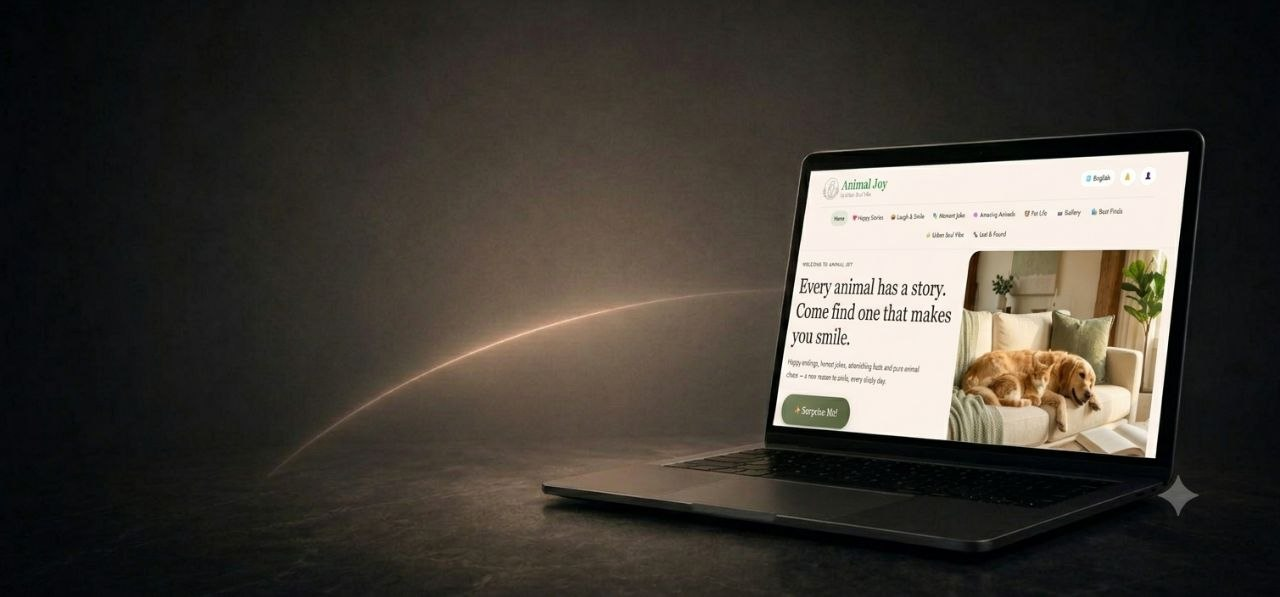
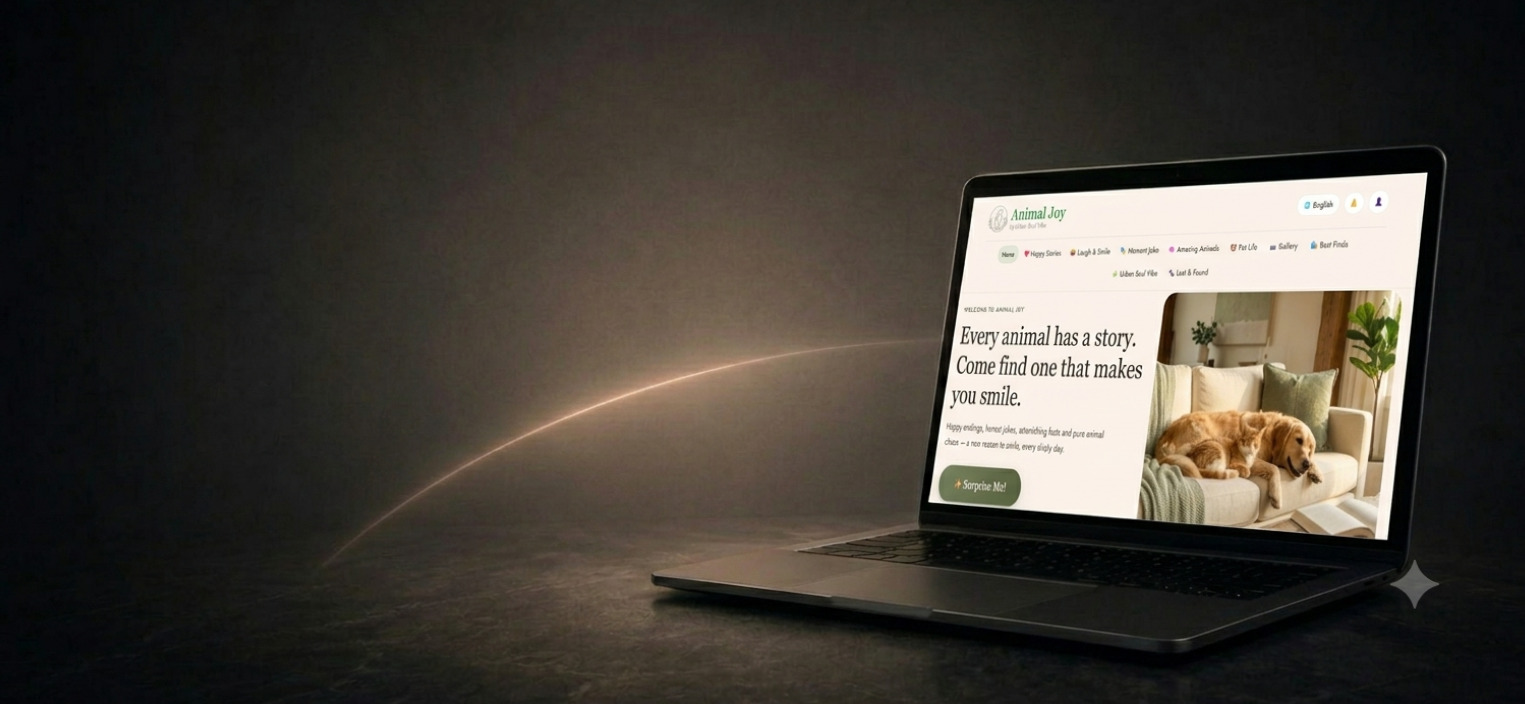
Add MongoDB keep-alive and auto-reconnect

diff --git a/src/pages/MessagesManager.jsx b/src/pages/MessagesManager.jsx
@@ -1,12 +1,15 @@
-import { useEffect, useState } from "react";
+import { useEffect, useMemo, useState } from "react";
 import { useAdminAuth } from "../context/AdminAuthContext";
 import { api } from "../api/client";
+
+const STATUS_TABS = ["all", "new", "read", "replied", "archived"];
 
 export default function MessagesManager() {
   const { token } = useAdminAuth();
   const [items, setItems] = useState([]);
   const [loading, setLoading] = useState(true);
   const [error, setError] = useState("");
+  const [filter, setFilter] = useState("all");
 
   const load = () => {
     setLoading(true);
@@ -38,45 +41,87 @@ export default function MessagesManager() {
     }
   };
 
+  const counts = useMemo(() => {
+    const c = { all: items.length, new: 0, read: 0, replied: 0, archived: 0 };
+    for (const m of items) c[m.status] = (c[m.status] || 0) + 1;
+    return c;
+  }, [items]);
+
+  const visible = filter === "all" ? items : items.filter((m) => m.status === filter);
+
   return (
     <div className="admin-panel">
       <div className="admin-panel__header">
         <h2>Messages</h2>
       </div>
 
+      <div className="admin-filter-tabs">
+        {STATUS_TABS.map((tab) => (
+          <button
+            key={tab}
+            className={filter === tab ? "is-active" : ""}
+            onClick={() => setFilter(tab)}
+          >
+            {tab[0].toUpperCase() + tab.slice(1)}
+            <span className="admin-filter-tabs__count">{counts[tab] || 0}</span>
+          </button>
+        ))}
+      </div>
+
       {error && <p className="admin-auth__error">{error}</p>}
 
       {loading ? (
         <p>Loading…</p>
-      ) : items.length === 0 ? (
-        <p>No messages yet.</p>
+      ) : visible.length === 0 ? (
+        <p>No messages here.</p>
       ) : (
         <div className="admin-table">
-          {items.map((msg) => (
+          {visible.map((msg) => (
             <div className="admin-message" key={msg._id}>
               <div className="admin-message__head">
                 <div>
                   <strong>{msg.name}</strong>
-                  <span className="admin-message__email"> — {msg.email}</span>
+                  <span className="admin-message__date">
+                    {new Date(msg.createdAt).toLocaleString()} · {msg.language?.toUpperCase()}
+                  </span>
                 </div>
                 <span className={`admin-status admin-status--${msg.status}`}>{msg.status}</span>
               </div>
-              <p className="admin-message__body">{msg.message}</p>
-              {(msg.whatsapp || msg.websiteUrl) && (
-                <p className="admin-message__extra">
-                  {msg.whatsapp && <span>WhatsApp: {msg.whatsapp}</span>}
-                  {msg.whatsapp && msg.websiteUrl && <span> · </span>}
-                  {msg.websiteUrl && (
+
+              <div className="admin-message__details">
+                <div className="admin-message__detail">
+                  <span className="admin-message__detail-label">Email</span>
+                  <a href={`mailto:${msg.email}`}>{msg.email}</a>
+                </div>
+                {msg.whatsapp && (
+                  <div className="admin-message__detail">
+                    <span className="admin-message__detail-label">WhatsApp</span>
+                    <a
+                      href={`https://wa.me/${msg.whatsapp.replace(/[^0-9]/g, "")}`}
+                      target="_blank"
+                      rel="noreferrer"
+                    >
+                      {msg.whatsapp}
+                    </a>
+                  </div>
+                )}
+                {msg.websiteUrl && (
+                  <div className="admin-message__detail">
+                    <span className="admin-message__detail-label">Website</span>
                     <a href={msg.websiteUrl} target="_blank" rel="noreferrer">
                       {msg.websiteUrl}
                     </a>
-                  )}
-                </p>
-              )}
-              <div className="admin-message__meta">
-                <span>{new Date(msg.createdAt).toLocaleString()}</span>
-                <span>· {msg.language?.toUpperCase()}</span>
+                  </div>
+                )}
               </div>
+
+              {msg.message && (
+                <div className="admin-message__detail admin-message__detail--block">
+                  <span className="admin-message__detail-label">Message</span>
+                  <p className="admin-message__body">{msg.message}</p>
+                </div>
+              )}
+
               <div className="admin-row__actions">
                 <select value={msg.status} onChange={(e) => setStatus(msg._id, e.target.value)}>
                   <option value="new">New</option>

diff --git a/src/i18n/translations.js b/src/i18n/translations.js
@@ -111,6 +111,8 @@ export const translations = {
       whatsappPlaceholder: "+20 155 886 1796",
       websiteLabel: "Website Link",
       websitePlaceholder: "https://yourwebsite.com",
+      messageLabel: "Message (optional)",
+      messagePlaceholder: "Tell us anything else that would help...",
       submit: "Send Request",
       sending: "Sending...",
       success: "Thank you! We received your request and will be in touch soon.",
@@ -229,6 +231,8 @@ export const translations = {
       whatsappPlaceholder: "+20 155 886 1796",
       websiteLabel: "رابط الموقع",
       websitePlaceholder: "https://yourwebsite.com",
+      messageLabel: "رسالة (اختياري)",
+      messagePlaceholder: "اكتب أي تفاصيل تانية تحب تقولهالنا...",
       submit: "إرسال الطلب",
       sending: "جارٍ الإرسال...",
       success: "شكرًا! استلمنا طلبك وهنتواصل معاك قريبًا.",
@@ -347,6 +351,8 @@ export const translations = {
       whatsappPlaceholder: "+20 155 886 1796",
       websiteLabel: "Enlace del Sitio Web",
       websitePlaceholder: "https://tusitio.com",
+      messageLabel: "Mensaje (opcional)",
+      messagePlaceholder: "Cuéntanos cualquier otro detalle que ayude...",
       submit: "Enviar Solicitud",
       sending: "Enviando...",
       success: "¡Gracias! Recibimos tu solicitud y te contactaremos pronto.",
@@ -465,6 +471,8 @@ export const translations = {
       whatsappPlaceholder: "+20 155 886 1796",
       websiteLabel: "Ссылка на сайт",
       websitePlaceholder: "https://vashsite.com",
+      messageLabel: "Сообщение (необязательно)",
+      messagePlaceholder: "Расскажите любые другие детали...",
       submit: "Отправить заявку",
       sending: "Отправка...",
       success: "Спасибо! Мы получили вашу заявку и скоро свяжемся с вами.",

diff --git a/src/pages/Admin.css b/src/pages/Admin.css
@@ -273,6 +273,85 @@
   color: var(--text-secondary);
 }
 
+.admin-filter-tabs {
+  display: flex;
+  flex-wrap: wrap;
+  gap: 8px;
+  margin-bottom: 22px;
+}
+
+.admin-filter-tabs button {
+  display: flex;
+  align-items: center;
+  gap: 7px;
+  background: var(--bg-card);
+  border: 1px solid var(--border-hairline);
+  color: var(--text-secondary);
+  padding: 8px 14px;
+  border-radius: 999px;
+  font-size: 12.5px;
+  font-weight: 600;
+}
+
+.admin-filter-tabs button.is-active {
+  border-color: var(--bronze);
+  color: var(--bronze-light);
+}
+
+.admin-filter-tabs__count {
+  background: rgba(255, 255, 255, 0.08);
+  padding: 1px 7px;
+  border-radius: 999px;
+  font-size: 11px;
+}
+
+.admin-filter-tabs button.is-active .admin-filter-tabs__count {
+  background: rgba(196, 154, 90, 0.2);
+}
+
+.admin-message__date {
+  display: block;
+  font-size: 11.5px;
+  color: var(--text-muted);
+  margin-top: 3px;
+  font-weight: 400;
+}
+
+.admin-message__details {
+  display: flex;
+  flex-wrap: wrap;
+  gap: 10px 28px;
+  margin-top: 4px;
+}
+
+.admin-message__detail {
+  display: flex;
+  flex-direction: column;
+  gap: 3px;
+}
+
+.admin-message__detail--block {
+  flex-basis: 100%;
+}
+
+.admin-message__detail-label {
+  font-size: 10.5px;
+  font-weight: 700;
+  letter-spacing: 0.06em;
+  text-transform: uppercase;
+  color: var(--bronze);
+}
+
+.admin-message__detail a {
+  font-size: 13.5px;
+  color: var(--text-primary);
+  word-break: break-all;
+}
+
+.admin-message__detail a:hover {
+  color: var(--bronze-light);
+}
+
 .admin-message__extra {
   font-size: 13px;
   color: var(--bronze-light);

diff --git a/server/src/config/db.js b/server/src/config/db.js
@@ -1,11 +1,50 @@
 import mongoose from "mongoose";
 
+const KEEP_ALIVE_MS = 4 * 60 * 1000; // 4 minutes
+let keepAliveTimer = null;
+
+function startKeepAlive() {
+  if (keepAliveTimer) return; // already running
+  keepAliveTimer = setInterval(async () => {
+    try {
+      if (mongoose.connection.readyState === 1) {
+        // lightweight ping to keep the connection warm
+        await mongoose.connection.db.admin().ping();
+        console.log("[keep-alive] MongoDB ping OK");
+      } else {
+        console.warn("[keep-alive] MongoDB not connected, state:", mongoose.connection.readyState);
+      }
+    } catch (err) {
+      console.error("[keep-alive] MongoDB ping failed:", err.message);
+    }
+  }, KEEP_ALIVE_MS);
+}
+
 export async function connectDB() {
   const uri = process.env.MONGODB_URI;
   if (!uri) {
     throw new Error("MONGODB_URI is not set in .env");
   }
   mongoose.set("strictQuery", true);
-  await mongoose.connect(uri);
-  console.log("MongoDB connected");
+
+  mongoose.connection.on("connected", () => {
+    console.log("MongoDB connected");
+  });
+
+  mongoose.connection.on("disconnected", () => {
+    console.warn("MongoDB disconnected — attempting to reconnect...");
+    mongoose.connect(uri).catch((err) => {
+      console.error("MongoDB reconnect failed:", err.message);
+    });
+  });
+
+  mongoose.connection.on("error", (err) => {
+    console.error("MongoDB connection error:", err.message);
+  });
+
+  await mongoose.connect(uri, {
+    serverSelectionTimeoutMS: 10000,
+  });
+
+  startKeepAlive();
 }

diff --git a/src/pages/StartPage.jsx b/src/pages/StartPage.jsx
@@ -7,7 +7,7 @@ import "./StartPage.css";
 
 function StartPageInner() {
   const { t, lang } = useLanguage();
-  const [values, setValues] = useState({ name: "", email: "", whatsapp: "", websiteUrl: "" });
+  const [values, setValues] = useState({ name: "", email: "", whatsapp: "", websiteUrl: "", message: "" });
   const [status, setStatus] = useState("idle");
   const [errorMsg, setErrorMsg] = useState("");
 
@@ -22,7 +22,7 @@ function StartPageInner() {
     try {
       await api.submitContact({ ...values, language: lang });
       setStatus("success");
-      setValues({ name: "", email: "", whatsapp: "", websiteUrl: "" });
+      setValues({ name: "", email: "", whatsapp: "", websiteUrl: "", message: "" });
     } catch (err) {
       setStatus("error");
       setErrorMsg(err.message);
@@ -91,6 +91,18 @@ function StartPageInner() {
               value={values.websiteUrl}
               onChange={handleChange}
               placeholder={t.startForm.websitePlaceholder}
+            />
+          </label>
+
+          <label className="contact-form__field">
+            <span>{t.startForm.messageLabel}</span>
+            <textarea
+              name="message"
+              rows={4}
+              maxLength={5000}
+              value={values.message}
+              onChange={handleChange}
+              placeholder={t.startForm.messagePlaceholder}
             />
           </label>
 

diff --git a/server/src/index.js b/server/src/index.js
@@ -2,6 +2,7 @@ import "dotenv/config";
 import express from "express";
 import cors from "cors";
 import path from "node:path";
+import mongoose from "mongoose";
 import { connectDB } from "./config/db.js";
 import authRoutes from "./routes/auth.js";
 import portfolioRoutes from "./routes/portfolio.js";
@@ -21,7 +22,9 @@ app.use(
 app.use(express.json({ limit: "1mb" }));
 app.use("/uploads", express.static(path.resolve("uploads")));
 
-app.get("/api/health", (_req, res) => res.json({ ok: true }));
+app.get("/api/health", (_req, res) => {
+  res.json({ ok: true, dbState: mongoose.connection.readyState });
+});
 app.use("/api/auth", authRoutes);
 app.use("/api/portfolio", portfolioRoutes);
 app.use("/api/contact", contactRoutes);
